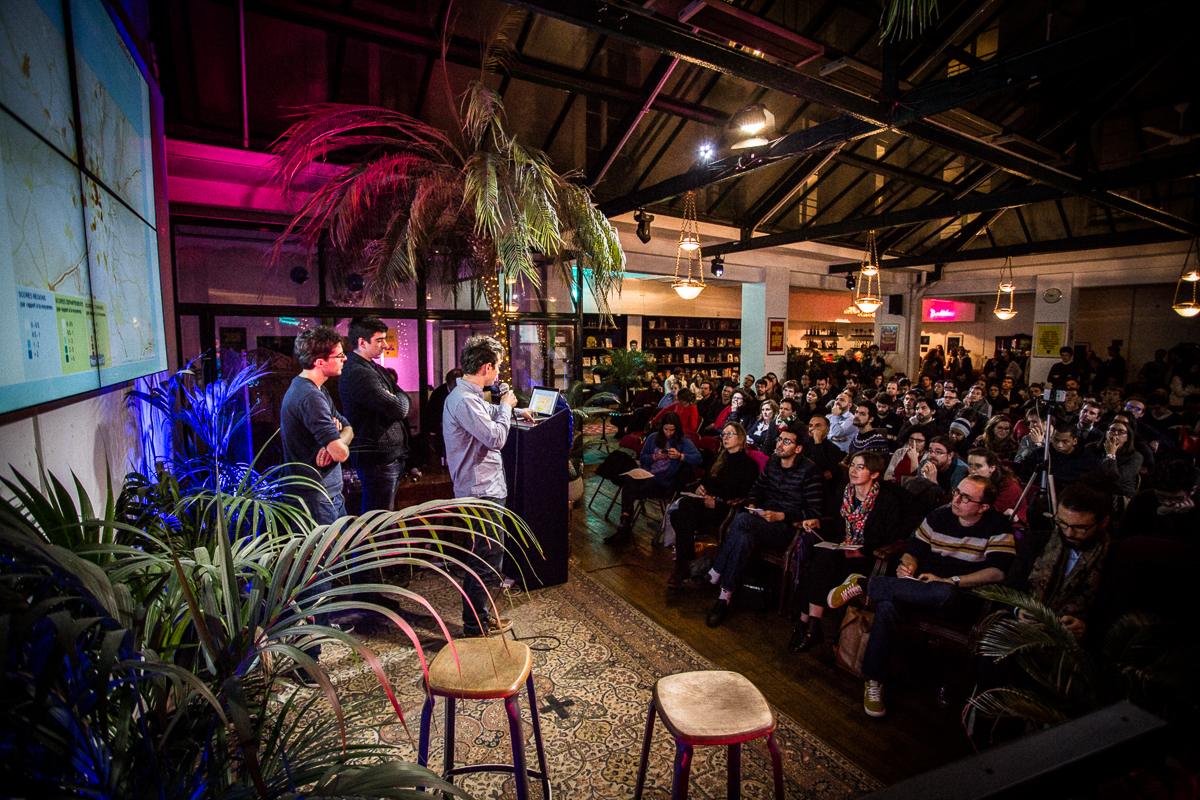
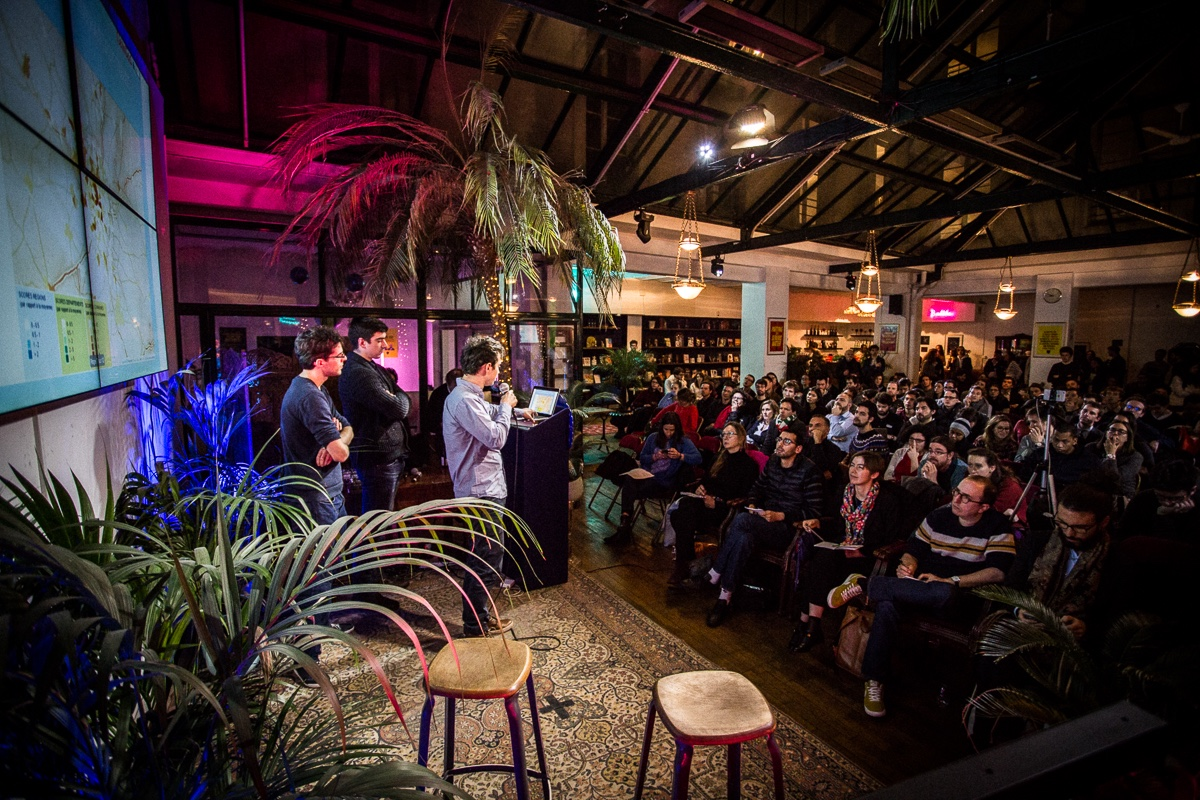
Make smaller background image and remove useless title off projects

diff --git a/_includes/header.html b/_includes/header.html
@@ -4,7 +4,7 @@
     {% include navbar.html %}
 
     <!-- Intro Section -->
-      <div class="view hm-black-light jarallax" data-jarallax='{"speed": 0.2}' style="background-image: url({{ site.url }}/images/background.png);">
+      <div class="view hm-black-light jarallax" data-jarallax='{"speed": 0.2}' style="background-image: url({{ site.url }}/images/background.jpg);">
         <div class="full-bg-img">
             <div class="container flex-center">
                 <div class="row pt-5 mt-3">

diff --git a/_layouts/project.html b/_layouts/project.html
@@ -2,13 +2,6 @@
 layout: default-project
 ---
 
-<div style="height: 20vh">
-    <div class="flex-center flex-column">
-        <h1 class="animated fadeIn mb-4">{{ page.title }}</h1>
-    </div>
-</div>
-
-
 <!-- Main layout-->
 
 <main>

diff --git a/index.html b/index.html
@@ -147,6 +147,3 @@ layout: default
       </div>
 </main>
 <!-- /.Main layout-->
-
-
-<!-- /Start your project here-->
